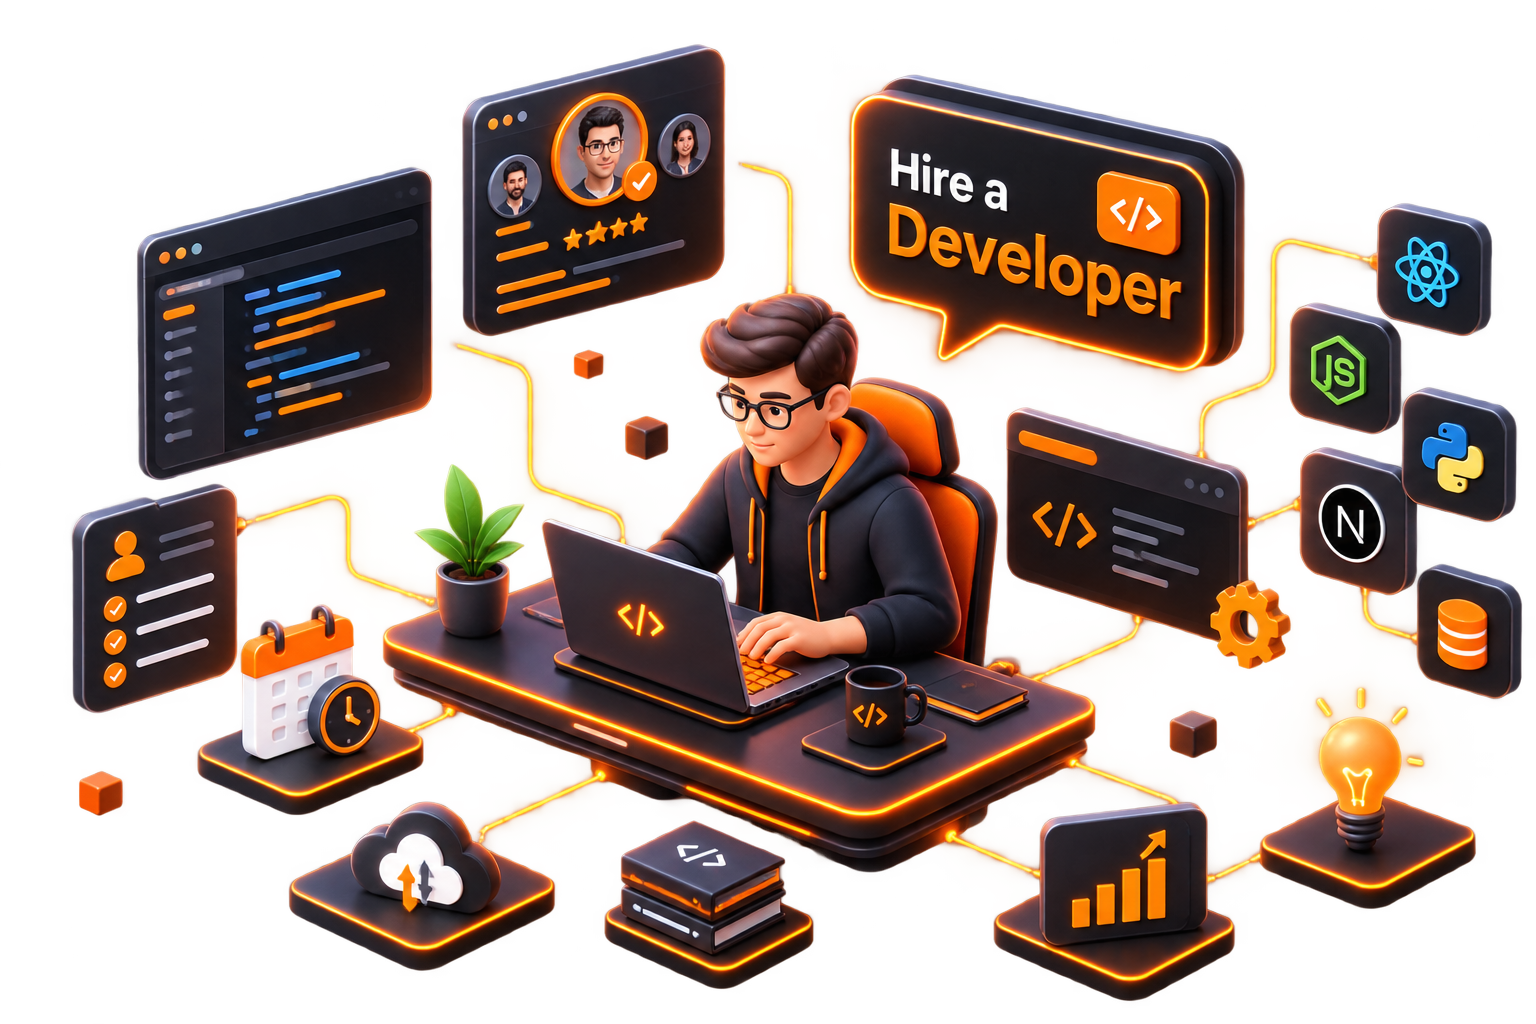
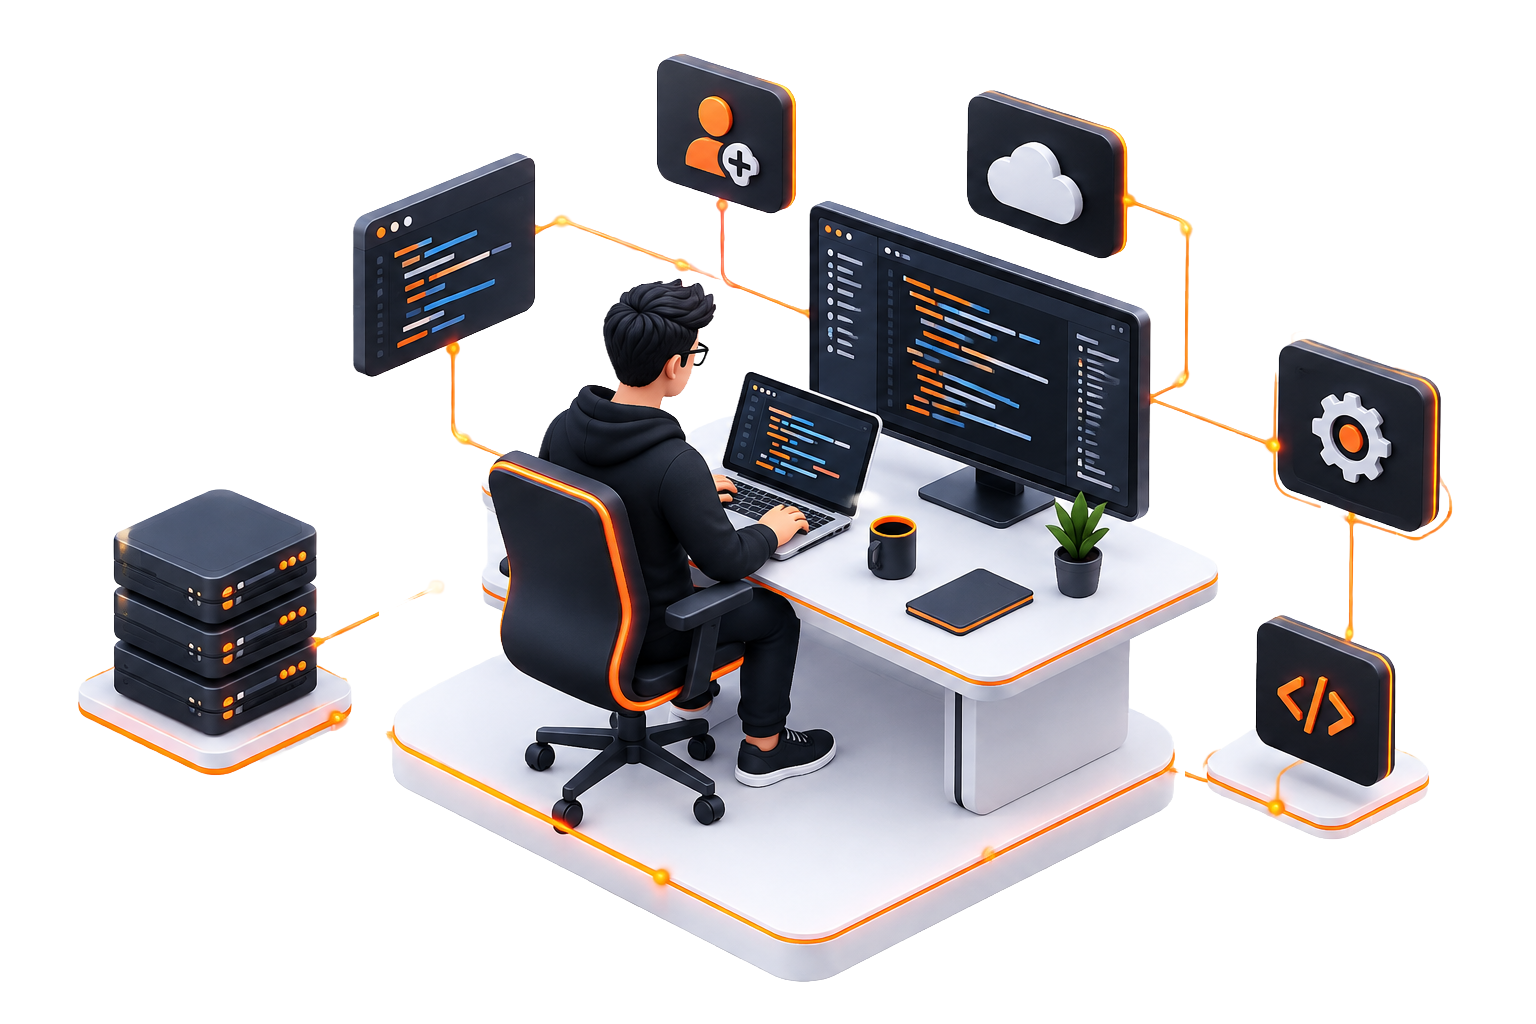
feat: add Hire a Development Team page with service showcase and capabilities grid

diff --git a/app/hireadevelopmentteam/page.tsx b/app/hireadevelopmentteam/page.tsx
@@ -15,7 +15,6 @@ import {
   Plus,
   Minus,
   Check,
-  ChevronDown,
 } from 'lucide-react';
 import { Nav } from '@/components/nav';
 import { SiteFooter } from '@/components/footer';
@@ -56,7 +55,6 @@ function Reveal({
 export default function HireADevelopmentTeamPage() {
   const [hoursCount, setHoursCount] = useState(1);
   const [selectedPlan, setSelectedPlan] = useState<number>(1);
-  const [faqOpen, setFaqOpen] = useState(true);
 
   const capabilityGridRef = useRef<HTMLDivElement>(null);
   const industryGridRef = useRef<HTMLDivElement>(null);
@@ -451,52 +449,8 @@ export default function HireADevelopmentTeamPage() {
         </div>
       </section>
 
-      {/* ─── SECTION 5: FAQ ───────────────────────────────────────────────────── */}
-      <section id="faq" className="py-16 sm:py-20 lg:py-28 bg-cream dark:bg-[var(--sp-bg)] border-b border-ink/10 dark:border-white/10">
-        <div className="mx-auto max-w-[1152px] px-5 md:px-6 lg:px-8">
-          <Reveal>
-            <div className="flex items-center justify-between gap-4 mb-8 sm:mb-12">
-              <h2 className="font-display text-3xl sm:text-4xl md:text-5xl leading-[1.08] text-ink dark:text-white tracking-tight">
-                FAQ
-                <span className="text-[#FF8101]">.</span>
-              </h2>
-              <span className="text-xs font-mono text-muted-foreground dark:text-white/40">
-                Common Questions
-              </span>
-            </div>
-          </Reveal>
-
-          <Reveal delay={0.1}>
-            <div className="max-w-[920px]">
-              <div className="rounded-2xl border border-ink/10 dark:border-white/10 bg-white dark:bg-[#141414] overflow-hidden">
-                <button
-                  type="button"
-                  onClick={() => setFaqOpen(!faqOpen)}
-                  className="w-full p-6 sm:p-8 text-left flex items-start justify-between gap-4 transition-colors hover:bg-black/[0.01] dark:hover:bg-white/[0.01]"
-                >
-                  <span className="text-[16px] sm:text-[17px] font-semibold text-ink dark:text-white leading-snug">
-                    How is &quot;Guaranteed assistance for 3.5 hours in a shift&quot; is achieved in Semi Dedicated Staff plan?
-                  </span>
-                  <span className={`shrink-0 w-8 h-8 rounded-full border border-ink/10 dark:border-white/10 flex items-center justify-center text-ink/70 dark:text-white/70 transition-transform duration-300 ${faqOpen ? 'rotate-180 text-[#FF8101] border-[#FF8101]/30' : ''}`}>
-                    <ChevronDown size={16} />
-                  </span>
-                </button>
-
-                {faqOpen && (
-                  <div className="px-6 sm:px-8 pb-6 sm:pb-8 pt-0 border-t border-ink/5 dark:border-white/5">
-                    <p className="pt-4 text-[14px] sm:text-[15px] leading-relaxed text-muted-foreground dark:text-white/70">
-                      In Semi Dedicated Staff plan a tech is assigned for 2 clients. Hence the tech will spent almost half of his shift time i.e. at least 3.5 hours completely dedicated to one client. The same tech may spent more time if the other client has no issues in queue.
-                    </p>
-                  </div>
-                )}
-              </div>
-            </div>
-          </Reveal>
-        </div>
-      </section>
-
-      {/* ─── SECTION 6: Contact Us ────────────────────────────────────────────── */}
-      <section id="contact" className="py-16 sm:py-20 lg:py-28 bg-white dark:bg-[var(--sp-surface)] border-b border-ink/10 dark:border-white/10">
+      {/* ─── SECTION 5: Contact Us ────────────────────────────────────────────── */}
+      <section id="contact" className="py-16 sm:py-20 lg:py-28 bg-cream dark:bg-[var(--sp-bg)] border-b border-ink/10 dark:border-white/10">
         <div className="mx-auto max-w-[1152px] px-5 md:px-6 lg:px-8">
           <Reveal>
             <h2 className="font-display text-3xl sm:text-4xl md:text-5xl leading-[1.08] text-ink dark:text-white tracking-tight mb-10 sm:mb-14">
@@ -558,8 +512,8 @@ export default function HireADevelopmentTeamPage() {
         </div>
       </section>
 
-      {/* ─── SECTION 7: Industry Solutions ─────────────────────────────────────── */}
-      <section className="py-16 sm:py-20 lg:py-28 bg-cream dark:bg-[var(--sp-bg)] relative">
+      {/* ─── SECTION 6: Industry Solutions ─────────────────────────────────────── */}
+      <section className="py-16 sm:py-20 lg:py-28 bg-white dark:bg-[var(--sp-surface)] relative">
         <GlobalBadgeSpotlight gridRef={industryGridRef} spotlightRadius={400} />
         <div className="mx-auto max-w-[1152px] px-5 md:px-6 lg:px-8 relative z-10">
           <Reveal>

diff --git a/app/nodemanagement/page.tsx b/app/nodemanagement/page.tsx
@@ -32,7 +32,7 @@ import {
 import { Nav } from '@/components/nav';
 import { SiteFooter } from '@/components/footer';
 import ParticleBadge, { GlobalBadgeSpotlight } from '@/components/MagicBadge';
-import imgNodeVirtualization from '@/assets/node-server-virtualization.jpg';
+import imgNodeVirtualization from '@/assets/node-server-virtualization.png';
 import imgNodeManagementIcon from '@/assets/illustration/nodemanagementicon.png';
 
 const getImageSrc = (img: any): string => {
@@ -149,15 +149,13 @@ export default function NodeManagementPage() {
             </div>
 
             {/* Right Visual Image */}
-            <div className="lg:col-span-5">
-              <Reveal delay={0.2}>
-                <div className="relative rounded-3xl overflow-hidden border border-ink/10 dark:border-white/15 bg-white/40 dark:bg-white/[0.02] p-2.5 sm:p-3">
-                  <img
-                    src={getImageSrc(imgNodeVirtualization)}
-                    alt="Node Management Virtualization"
-                    className="w-full h-auto object-cover rounded-2xl border border-ink/5 dark:border-white/10 aspect-[4/3]"
-                  />
-                </div>
+            <div className="lg:col-span-5 flex items-center justify-center">
+              <Reveal delay={0.2} className="w-full flex justify-center">
+                <img
+                  src={getImageSrc(imgNodeVirtualization)}
+                  alt="Node Management Virtualization"
+                  className="w-full max-w-[480px] h-auto object-contain transition-transform duration-300 hover:scale-[1.02]"
+                />
               </Reveal>
             </div>
           </div>
